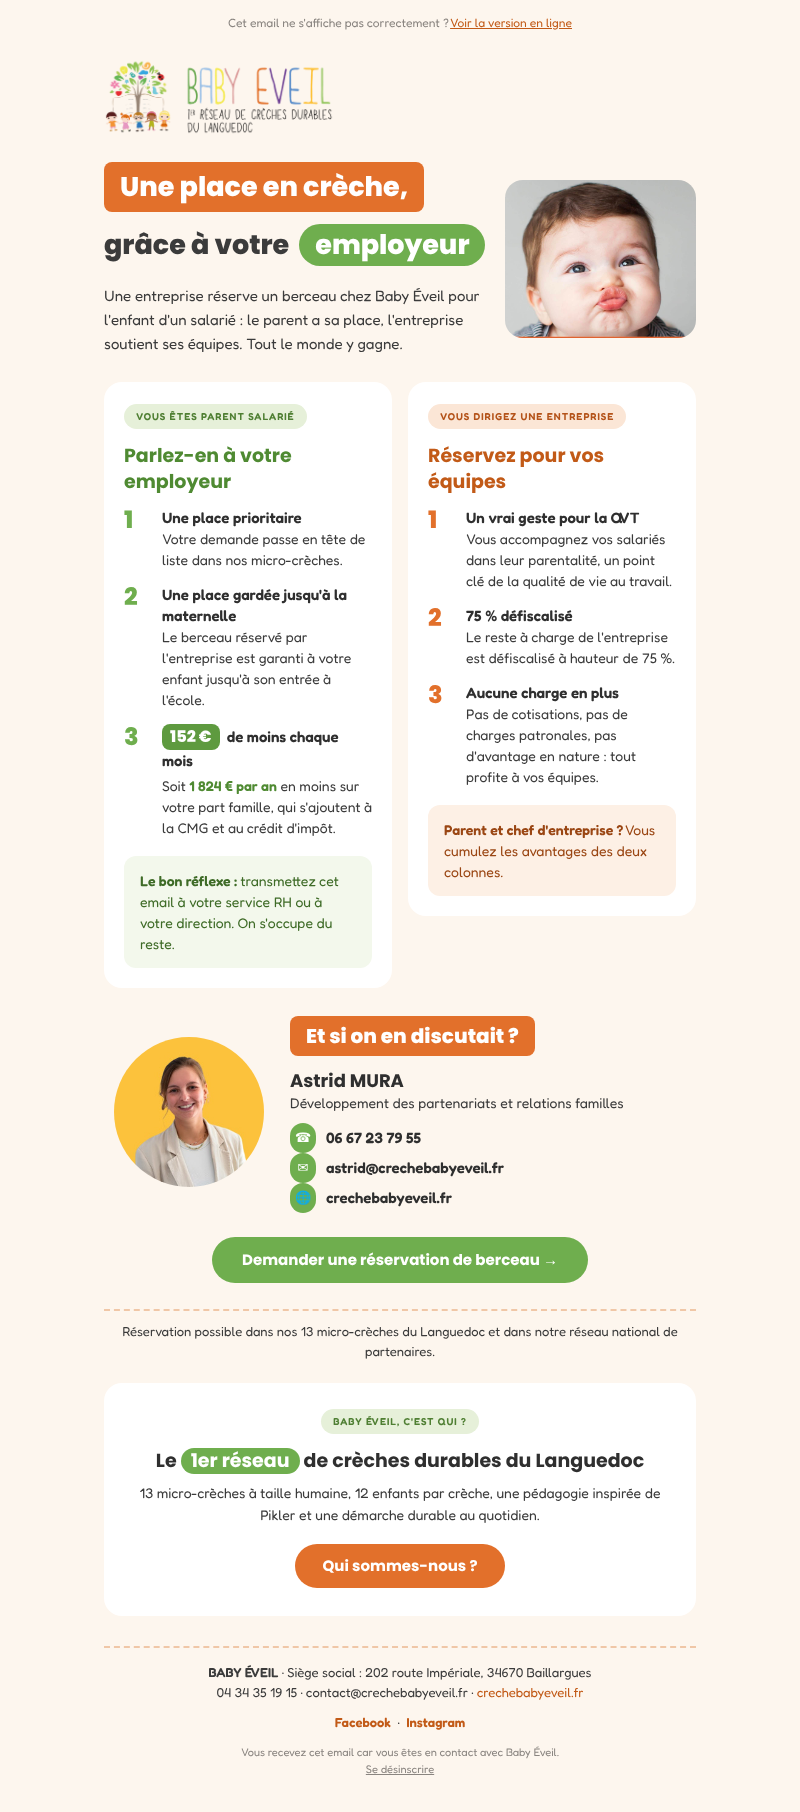
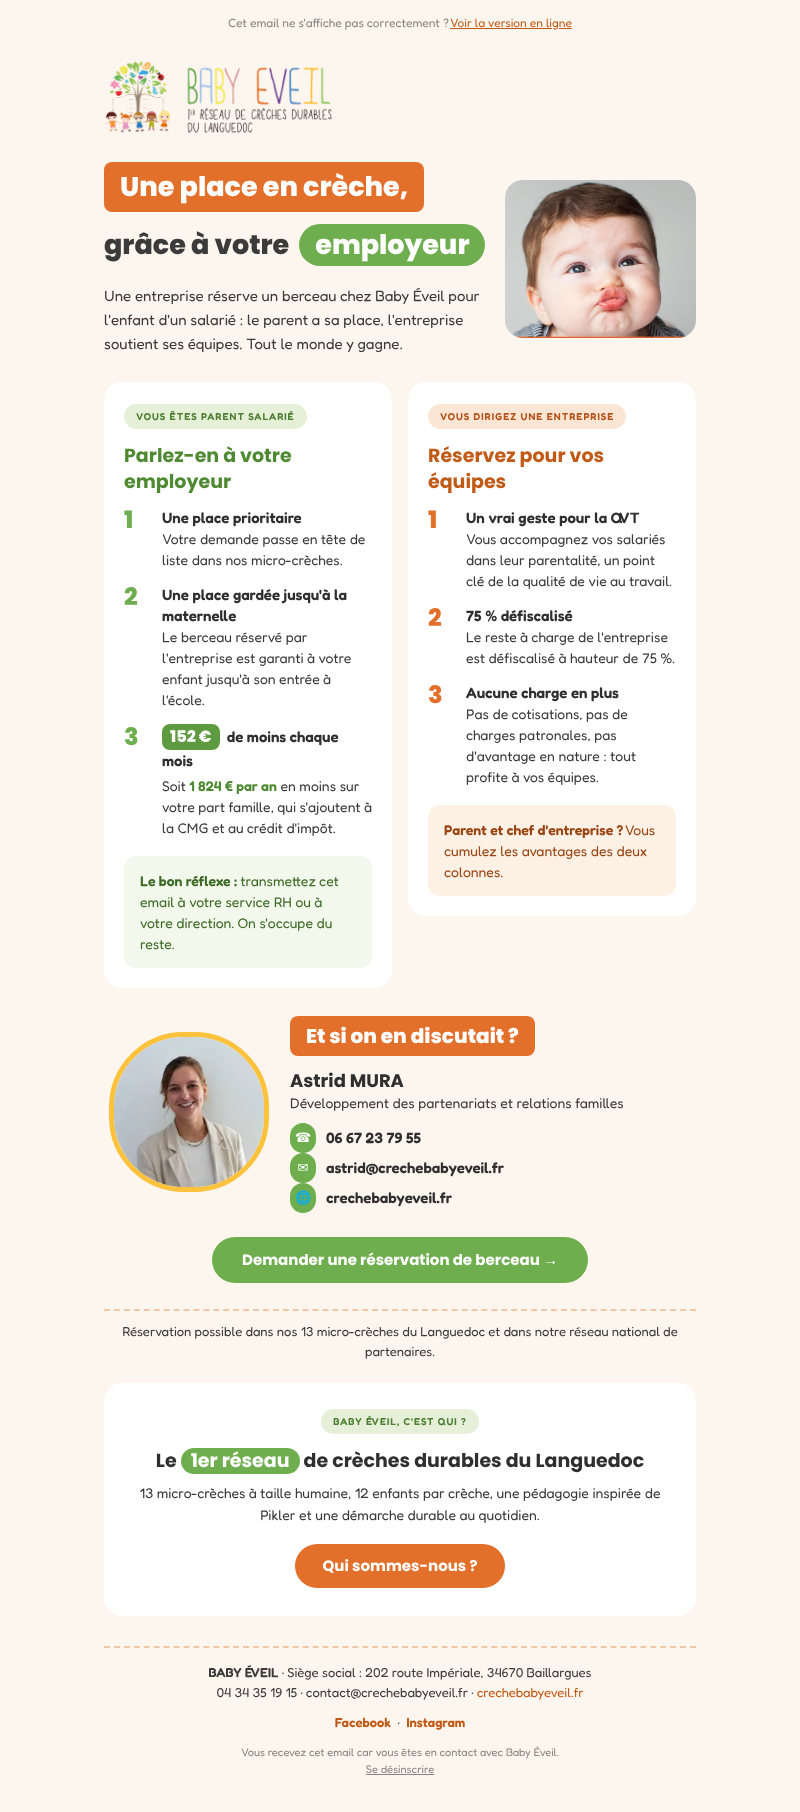
Email Baby Éveil : photo d'Astrid hébergée sur le site
Claude-Session: https://claude.ai/code/session_019qc59Zs9auVzVSiYqsTnYf

Changed region(s): [[0.125, 0.5563, 0.3438, 0.6799]]

diff --git a/emails/baby-eveil-berceaux-entreprise/email.html b/emails/baby-eveil-berceaux-entreprise/email.html
@@ -249,7 +249,7 @@
         <table role="presentation" border="0" cellpadding="0" cellspacing="0" width="100%">
           <tr>
             <td class="stack center stack-gap" width="170" valign="middle" align="center" style="width:170px; padding:0 16px 0 0;">
-              <img src="images/astrid.jpg" width="150" height="150" alt="Astrid Mura" style="width:150px; height:150px; border-radius:75px; display:inline-block;">
+              <img src="https://crechebabyeveil.fr/wp-content/uploads/2026/08/unnamed-2.webp" width="150" height="150" alt="Astrid Mura" style="width:150px; height:150px; border-radius:75px; border:5px solid #fcc23c; display:inline-block;">
             </td>
             <td class="stack" valign="middle" style="padding:0;">
               <table role="presentation" border="0" cellpadding="0" cellspacing="0">

diff --git a/emails/baby-eveil-berceaux-entreprise/README.md b/emails/baby-eveil-berceaux-entreprise/README.md
@@ -7,24 +7,21 @@ renvoie vers crechebabyeveil.fr/qui-sommes-nous. Compatible import HTML Brevo.
 
 ## Fichiers
 
-- `email.html` : l'email complet.
-- `images/astrid.jpg` : la seule image qui n'est pas hébergée sur
-  crechebabyeveil.fr (photo d'Astrid).
+- `email.html` : l'email complet. Toutes les images (logo, bébé, photo
+  d'Astrid) pointent vers des fichiers hébergés sur crechebabyeveil.fr.
+- `images/astrid.jpg` : version JPG de la photo d'Astrid, à importer dans
+  Brevo si l'on veut remplacer le WebP du site (le WebP ne s'affiche pas
+  dans Outlook pour Windows).
 - `apercu-desktop.png` / `apercu-mobile.png` : rendus de contrôle.
 
-Le logo et la photo du bébé pointent déjà vers des images hébergées sur
-crechebabyeveil.fr, rien à faire pour elles.
+## Intégration dans Brevo
 
-## Intégration dans Brevo (3 étapes)
-
-1. **Héberger la photo d'Astrid** : Brevo > Campagnes > Modèles > « Bibliothèque
-   d'images » (ou l'onglet « Images » de l'éditeur). Importer `images/astrid.jpg`
-   et copier l'URL obtenue.
-2. **Remplacer le chemin** dans `email.html` : `src="images/astrid.jpg"` doit
-   devenir cette URL Brevo.
-3. **Créer le modèle** : Brevo > Campagnes > Modèles > Nouveau modèle >
+1. **Créer le modèle** : Brevo > Campagnes > Modèles > Nouveau modèle >
    « Coder en HTML » > « Coller le code » > coller tout le contenu de
    `email.html` > Enregistrer. Envoyer un test (Outlook, Gmail, iPhone).
+2. **Optionnel, pour Outlook Windows** : importer `images/astrid.jpg` dans la
+   bibliothèque d'images Brevo et remplacer l'URL `unnamed-2.webp` du HTML
+   par l'URL Brevo obtenue.
 
 Les balises Brevo sont déjà en place : `{{ mirror }}` (version en ligne) et
 `{{ unsubscribe }}` (désinscription).
